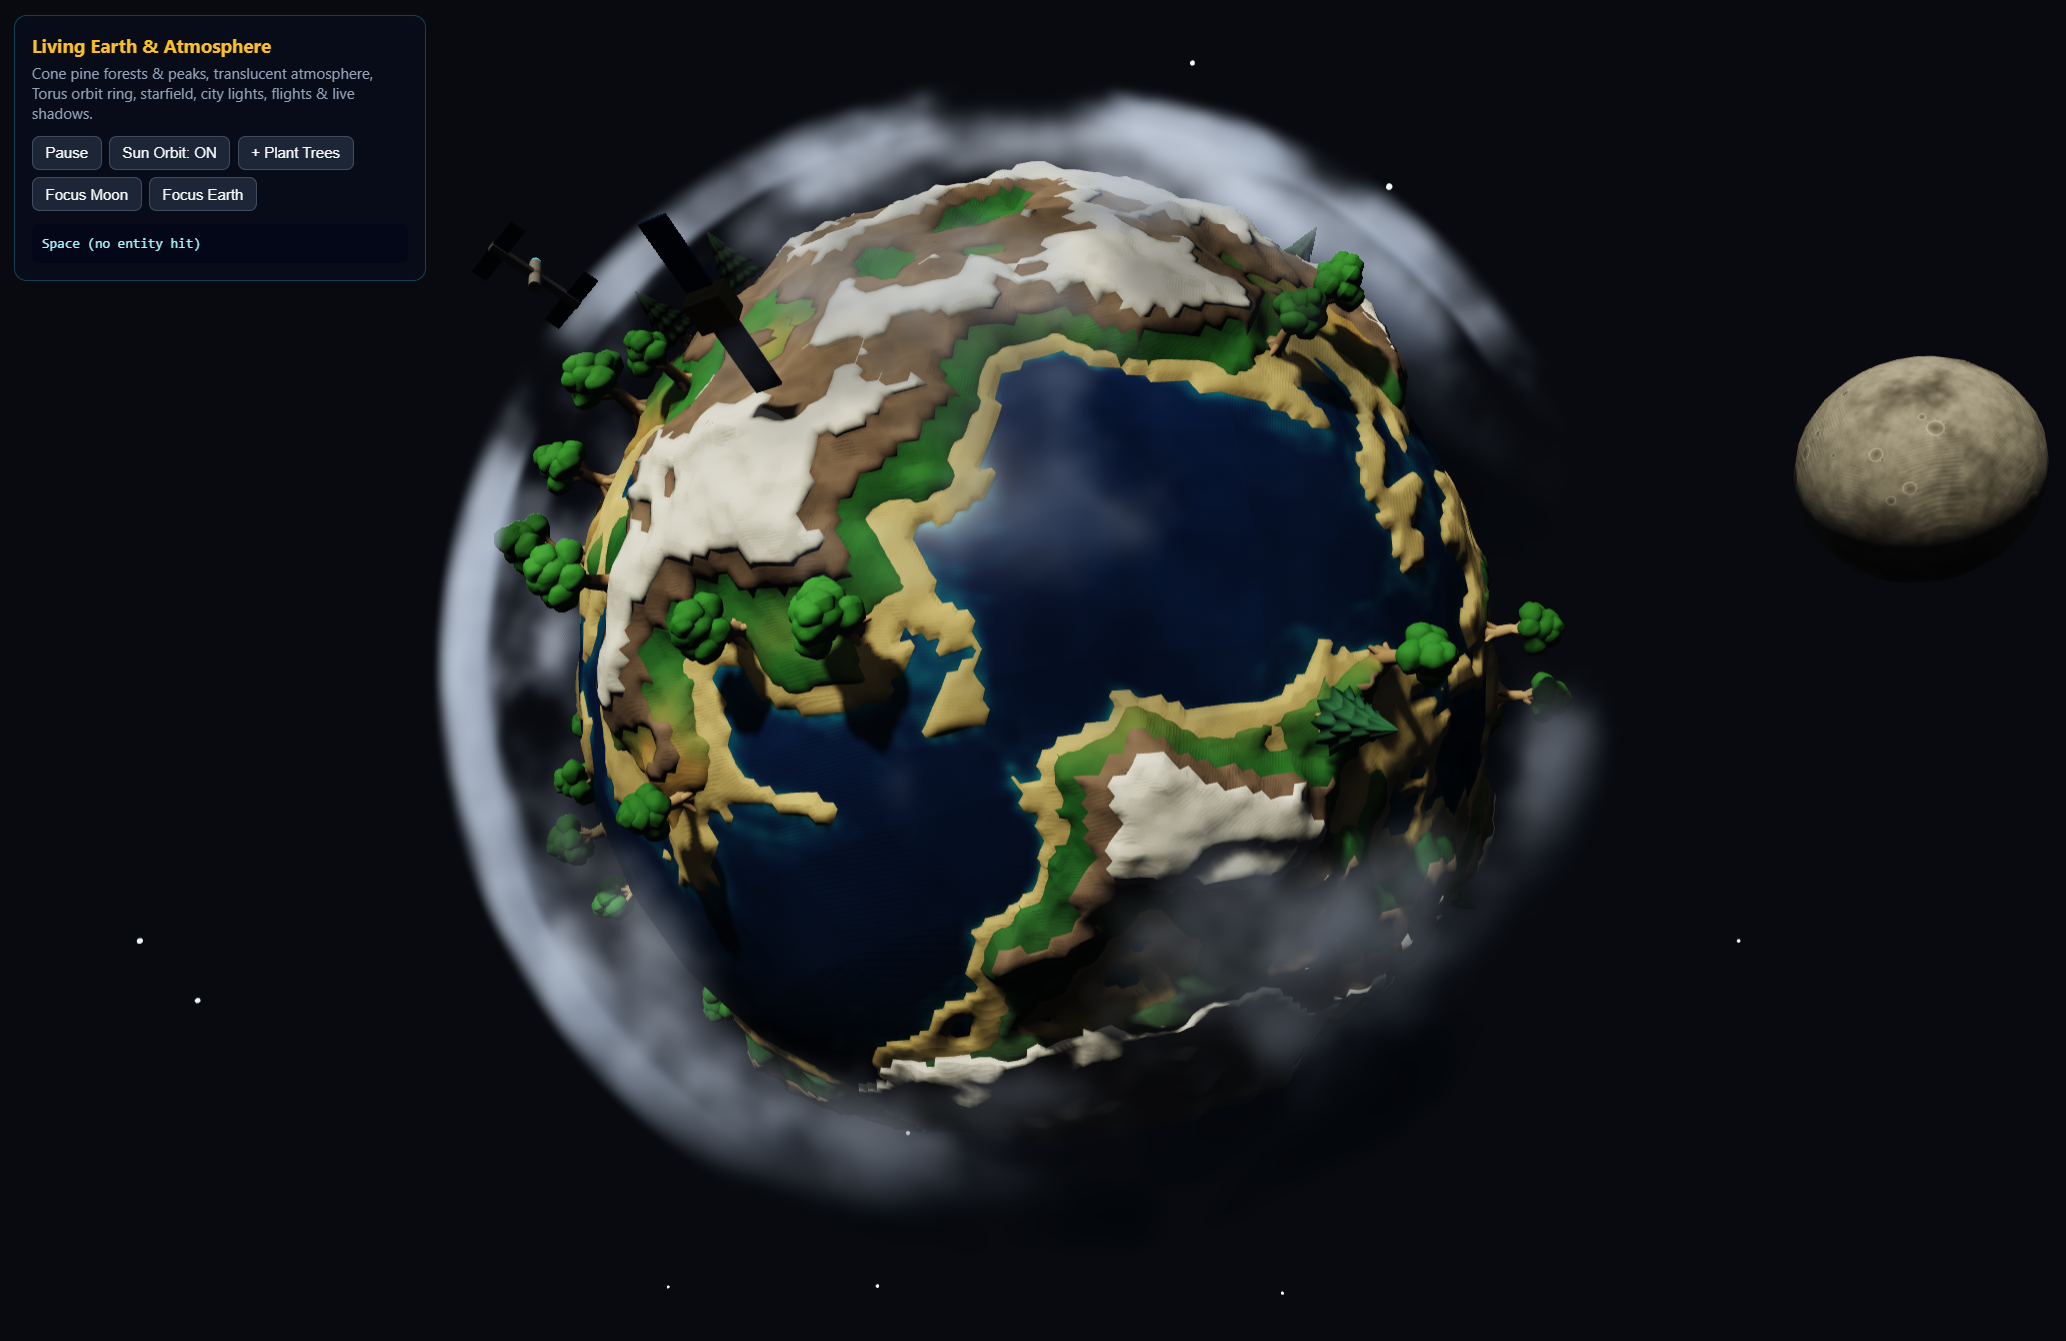
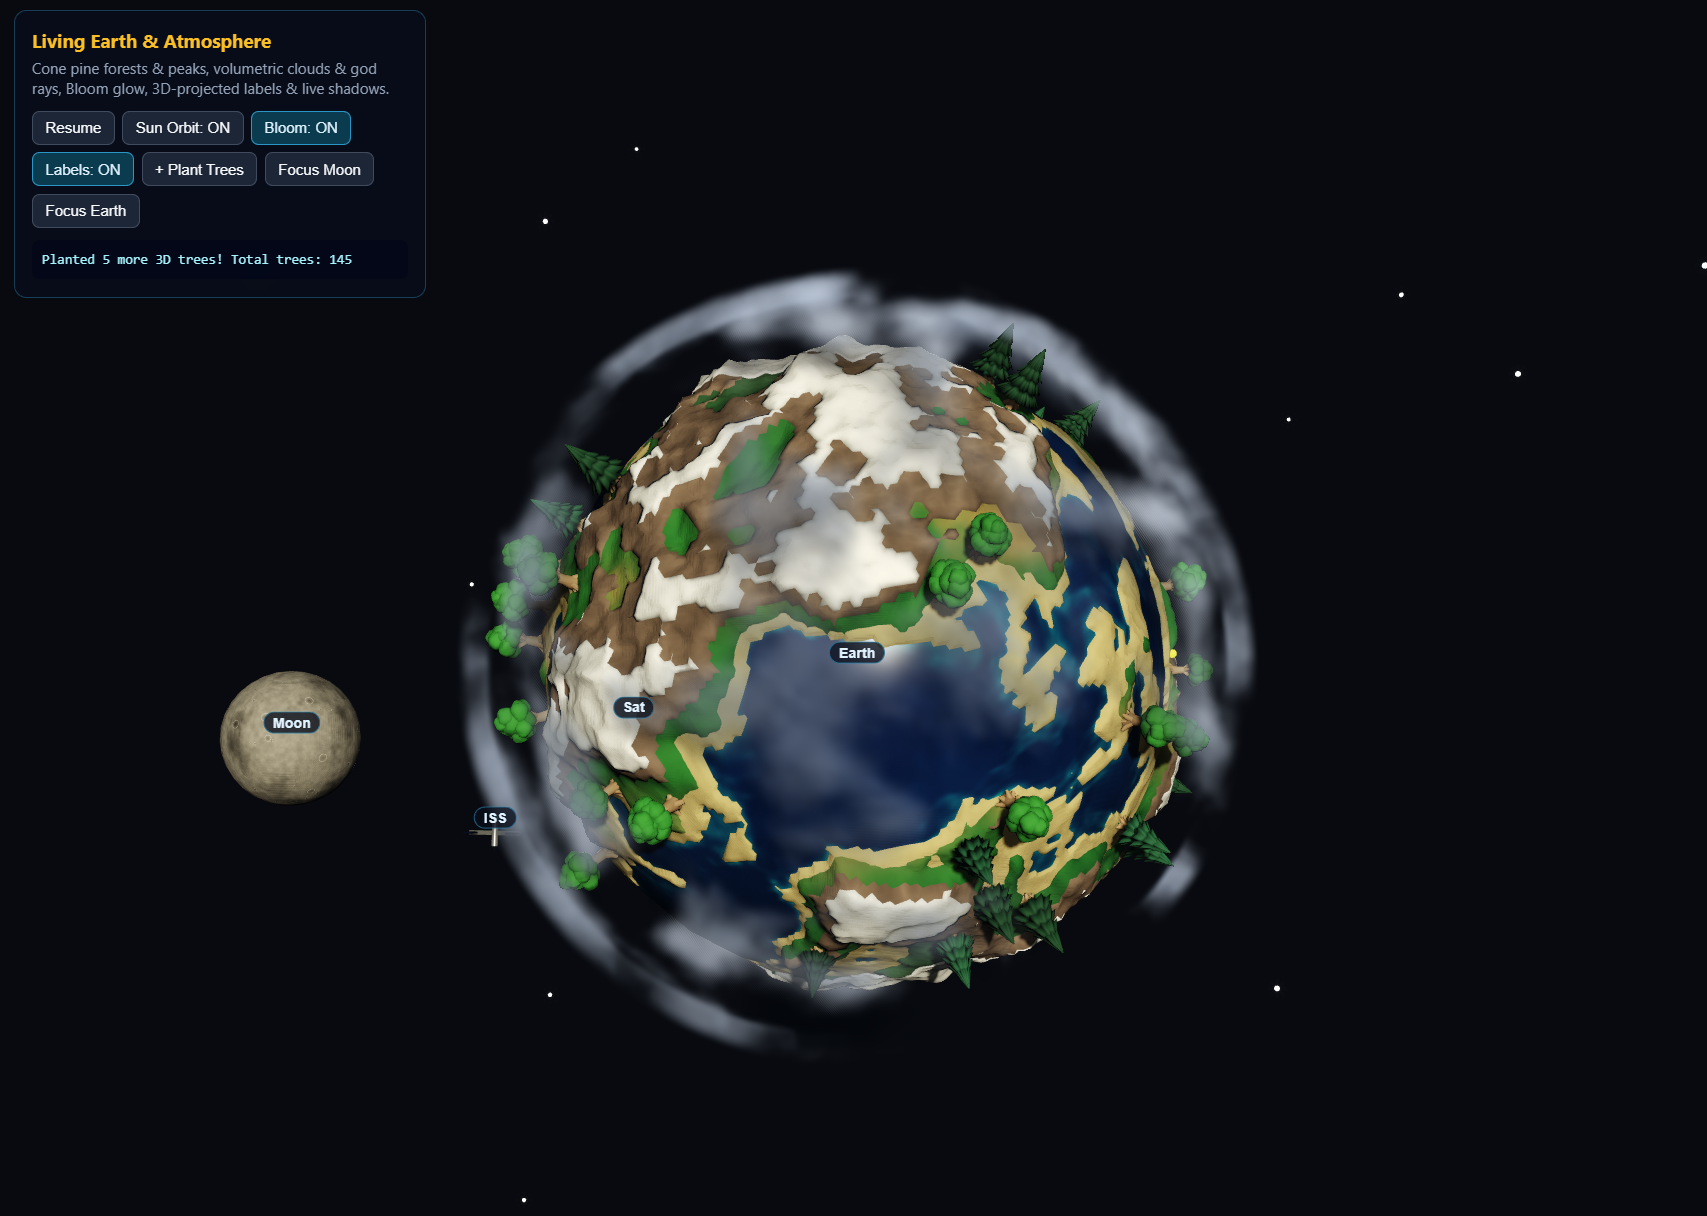
add Bloom post-processing, app.project(), AI collision fixes, and dynamic clouds
- Rendering & Volumetric Shaders:
  - Add `src/gpu/shaders/bloom.wgsl` and `app.setBloom(config)` in `Engine` / `Renderer`
    (with `postColorTexture` chaining alongside the volumetric pass)
  - Enhance `src/gpu/shaders/volumetric.wgsl` with dynamic cloud lifecycle (buildup,
    dissipation, wispy edge erosion, isotropic 3D domain warping, and bounded wind shear)
    and remove screen-space god rays
- AI Inspection & Engine API:
  - Add `suggestedFixes` (`SuggestedFix[]`) to `Inspector.describe()` for actionable
    `app.patch()` collision resolution, with unit tests in `Inspector.test.ts`
  - Add `projectWorldPoint()` and `app.project(target)` reading world transforms from
    `modelMatrices` (and update `applySyncCamera` to resolve parented entities properly)
  - Export `BloomConfig`, `ProjectedPoint`, and `SuggestedFix` in `src/index.ts`
- Examples & Docs:
  - Refine `examples/earth-globe.html` with Bloom toggle, toggleable 3D-projected HTML
    labels (`L` shortcut / HUD button), and faster dynamic cloud lifecycle
  - Add `examples/smart-factory/` (AI-supervised warehouse with `McpBridge`, `app.patch()`,
    `app.pick()`, auto-healing `warnings[]`, `suggestedFixes`, `app.project()`, Bloom, README)
  - Add `examples/sky-rings/` arcade flight game with Bloom, mouse/keyboard controls,
    segment-to-sphere ring collision, and README
  - Update `README.md` with new features, examples, and `examples/earth-globe.png` preview

diff --git a/examples/earth-globe.html b/examples/earth-globe.html
@@ -41,6 +41,12 @@
         font-size: 12px;
       }
       button:hover { border-color: #fbbf24; background: rgba(251, 191, 36, 0.16); }
+      button.toggle-on {
+        border-color: rgba(56, 189, 248, 0.7);
+        background: rgba(14, 116, 144, 0.45);
+        color: #e0f2fe;
+      }
+      #hud { z-index: 10; }
       #pickInfo {
         padding: 8px;
         border-radius: 6px;
@@ -48,16 +54,49 @@
         font: 11px/1.4 monospace;
         color: #a5f3fc;
       }
+      #labelsLayer {
+        position: fixed;
+        inset: 0;
+        z-index: 5;
+        pointer-events: none;
+        overflow: hidden;
+      }
+      .world-label {
+        position: absolute;
+        top: 0;
+        left: 0;
+        transform: translate(-50%, -120%);
+        padding: 2px 7px;
+        border-radius: 999px;
+        background: rgba(8, 13, 26, 0.78);
+        border: 1px solid rgba(56, 189, 248, 0.45);
+        color: #e0f2fe;
+        font-size: 11px;
+        font-weight: 600;
+        letter-spacing: 0.02em;
+        white-space: nowrap;
+        pointer-events: auto;
+        cursor: pointer;
+        user-select: none;
+        transition: border-color 0.15s, background 0.15s;
+      }
+      .world-label:hover {
+        border-color: #fbbf24;
+        background: rgba(251, 191, 36, 0.22);
+      }
     </style>
   </head>
   <body>
     <canvas id="canvas"></canvas>
+    <div id="labelsLayer"></div>
     <div id="hud">
       <h1>Living Earth &amp; Atmosphere</h1>
-      <p>Cone pine forests &amp; peaks, translucent atmosphere, Torus orbit ring, starfield, city lights, flights &amp; live shadows.</p>
+      <p>Cone pine forests &amp; peaks, volumetric clouds &amp; god rays, Bloom glow, 3D-projected labels &amp; live shadows.</p>
       <div class="row">
         <button id="btnPause">Pause</button>
         <button id="btnSunOrbit">Sun Orbit: ON</button>
+        <button id="btnBloom" class="toggle-on">Bloom: ON</button>
+        <button id="btnLabels" class="toggle-on">Labels: ON</button>
         <button id="btnPlant">+ Plant Trees</button>
         <button id="btnFocusMoon">Focus Moon</button>
         <button id="btnFit">Focus Earth</button>
@@ -82,8 +121,11 @@
       } from '../src/index.ts';
 
       const pickInfo = document.getElementById('pickInfo');
+      const labelsLayer = document.getElementById('labelsLayer');
       const btnPause = document.getElementById('btnPause');
       const btnSunOrbit = document.getElementById('btnSunOrbit');
+      const btnBloom = document.getElementById('btnBloom');
+      const btnLabels = document.getElementById('btnLabels');
       const btnPlant = document.getElementById('btnPlant');
       const btnFocusMoon = document.getElementById('btnFocusMoon');
       const btnFit = document.getElementById('btnFit');
@@ -587,7 +629,7 @@
           cloudDensity: 3.1,
           cloudCoverage: 0.56,
           cloudScale: 1.45,
-          cloudSpeed: 0.16,
+          cloudSpeed: 0.34,
           scatter: 0.68,
         });
 
@@ -688,10 +730,32 @@
         app.add(Sphere({ id: 'iss-beacon', parent: 'iss', position: [0, 0.10, 0], radius: 0.02, color: '#38bdf8', emissive: 3.0 }));
 
         app.use(OrbitControls({ distance: 7.0, target: [0, 0, 0] }));
+        app.setBloom({ enabled: true, threshold: 0.80, intensity: 0.65, radius: 1.7 });
 
         let paused = false;
         let sunOrbit = true;
+        let bloomOn = true;
+        let labelsOn = true;
         let simTime = 0;
+
+        // 3D-projected HTML labels using app.project()
+        const labelTargets = [
+          { id: 'earth', text: 'Earth', dist: 7.0 },
+          { id: 'moon', text: 'Moon', dist: 2.2 },
+          { id: 'iss', text: 'ISS', dist: 1.8 },
+          { id: 'satellite', text: 'Sat', dist: 1.8 },
+          { id: 'sun', text: 'Sun', dist: 4.5 },
+        ].map((item) => {
+          const el = document.createElement('button');
+          el.className = 'world-label';
+          el.textContent = item.text;
+          el.addEventListener('click', (ev) => {
+            ev.stopPropagation();
+            app.focusCamera({ target: item.id, angle: 'front-elevated', distance: item.dist });
+          });
+          labelsLayer.appendChild(el);
+          return { ...item, el };
+        });
 
         btnPause.addEventListener('click', () => {
           paused = !paused;
@@ -700,6 +764,22 @@
         btnSunOrbit.addEventListener('click', () => {
           sunOrbit = !sunOrbit;
           btnSunOrbit.textContent = `Sun Orbit: ${sunOrbit ? 'ON' : 'OFF'}`;
+        });
+        btnBloom.addEventListener('click', () => {
+          bloomOn = !bloomOn;
+          app.setBloom({ enabled: bloomOn });
+          btnBloom.textContent = `Bloom: ${bloomOn ? 'ON' : 'OFF'}`;
+          btnBloom.classList.toggle('toggle-on', bloomOn);
+        });
+        const toggleLabels = () => {
+          labelsOn = !labelsOn;
+          labelsLayer.style.display = labelsOn ? 'block' : 'none';
+          btnLabels.textContent = `Labels: ${labelsOn ? 'ON' : 'OFF'}`;
+          btnLabels.classList.toggle('toggle-on', labelsOn);
+        };
+        btnLabels.addEventListener('click', toggleLabels);
+        window.addEventListener('keydown', (e) => {
+          if (e.key === 'l' || e.key === 'L') toggleLabels();
         });
         btnPlant.addEventListener('click', () => {
           for (let k = 0; k < 5; k++) {
@@ -712,42 +792,57 @@
         btnFit.addEventListener('click', () => app.focusCamera({ target: 'earth', angle: 'front-elevated', distance: 7.0 }));
 
         app.onTick((dt) => {
-          if (paused) return;
-          simTime += dt;
+          if (!paused) {
+            simTime += dt;
 
-          quat.fromEuler(earth.rotation, 0.18, simTime * 0.20, 0);
+            quat.fromEuler(earth.rotation, 0.18, simTime * 0.20, 0);
 
-          const mAngle = simTime * 0.35;
-          moon.setPosition(
-            Math.cos(mAngle) * moonOrbitR,
-            0.35 * Math.sin(mAngle),
-            Math.sin(mAngle) * moonOrbitR,
-          );
+            const mAngle = simTime * 0.35;
+            moon.setPosition(
+              Math.cos(mAngle) * moonOrbitR,
+              0.35 * Math.sin(mAngle),
+              Math.sin(mAngle) * moonOrbitR,
+            );
 
-          const sAngle = -simTime * 0.95;
-          sat.setPosition(
-            Math.cos(sAngle) * 2.55,
-            Math.sin(sAngle * 2) * 0.55,
-            Math.sin(sAngle) * 2.55,
-          );
-          quat.fromEuler(sat.rotation, 0, -sAngle, 0.3);
+            const sAngle = -simTime * 0.95;
+            sat.setPosition(
+              Math.cos(sAngle) * 2.55,
+              Math.sin(sAngle * 2) * 0.55,
+              Math.sin(sAngle) * 2.55,
+            );
+            quat.fromEuler(sat.rotation, 0, -sAngle, 0.3);
 
-          const issAngle = simTime * 0.72 + 2.1;
-          iss.setPosition(
-            Math.cos(issAngle) * 2.75,
-            Math.sin(issAngle) * 1.15,
-            Math.sin(issAngle) * 2.50,
-          );
-          quat.fromEuler(iss.rotation, 0.35, -issAngle, 0.2);
+            const issAngle = simTime * 0.72 + 2.1;
+            iss.setPosition(
+              Math.cos(issAngle) * 2.75,
+              Math.sin(issAngle) * 1.15,
+              Math.sin(issAngle) * 2.50,
+            );
+            quat.fromEuler(iss.rotation, 0.35, -issAngle, 0.2);
 
-          quat.fromEuler(sunMesh.rotation, 0.12, simTime * 0.08, 0);
-          if (sunOrbit) {
-            const sunA = simTime * 0.18 + 0.6;
-            const sx = Math.cos(sunA) * sunRadius;
-            const sy = 4.2 + Math.sin(sunA * 0.5) * 1.5;
-            const sz = Math.sin(sunA) * sunRadius;
-            sunLight.setPosition(sx, sy, sz);
-            sunMesh.setPosition(sx, sy, sz);
+            quat.fromEuler(sunMesh.rotation, 0.12, simTime * 0.08, 0);
+            if (sunOrbit) {
+              const sunA = simTime * 0.18 + 0.6;
+              const sx = Math.cos(sunA) * sunRadius;
+              const sy = 4.2 + Math.sin(sunA * 0.5) * 1.5;
+              const sz = Math.sin(sunA) * sunRadius;
+              sunLight.setPosition(sx, sy, sz);
+              sunMesh.setPosition(sx, sy, sz);
+            }
+          }
+
+          if (labelsOn) {
+            for (let i = 0; i < labelTargets.length; i++) {
+              const item = labelTargets[i];
+              const p = app.project(item.id);
+              if (!p || !p.visible) {
+                item.el.style.display = 'none';
+              } else {
+                item.el.style.display = 'block';
+                item.el.style.left = `${p.x.toFixed(1)}px`;
+                item.el.style.top = `${p.y.toFixed(1)}px`;
+              }
+            }
           }
         });
 

diff --git a/src/core/Engine.ts b/src/core/Engine.ts
@@ -469,9 +469,11 @@ export class Engine {
     if (typeof cfg.target === 'string') {
       const id = resolveEntityId(cfg.target);
       if (id !== undefined) {
-        tx = this.store.positions[id * 3] ?? 0;
-        ty = this.store.positions[id * 3 + 1] ?? 0;
-        tz = this.store.positions[id * 3 + 2] ?? 0;
+        this.store.updateMatrices();
+        const mOff = id * 16;
+        tx = this.store.modelMatrices[mOff + 12] ?? 0;
+        ty = this.store.modelMatrices[mOff + 13] ?? 0;
+        tz = this.store.modelMatrices[mOff + 14] ?? 0;
       } else {
         warnings.push(`Unknown camera target "${cfg.target}"; targeting origin.`);
       }
@@ -545,19 +547,16 @@ export class Engine {
     let point: readonly [number, number, number];
     if (Array.isArray(target)) {
       point = target as readonly [number, number, number];
-    } else if (target instanceof EntityHandle) {
-      point = [
-        this.store.positions[target.id * 3] ?? 0,
-        this.store.positions[target.id * 3 + 1] ?? 0,
-        this.store.positions[target.id * 3 + 2] ?? 0,
-      ];
     } else {
-      const handle = this.get(target as string | number);
+      const handle =
+        target instanceof EntityHandle ? target : this.get(target as string | number);
       if (!handle) return null;
+      this.store.updateMatrices();
+      const mOff = handle.id * 16;
       point = [
-        this.store.positions[handle.id * 3] ?? 0,
-        this.store.positions[handle.id * 3 + 1] ?? 0,
-        this.store.positions[handle.id * 3 + 2] ?? 0,
+        this.store.modelMatrices[mOff + 12] ?? 0,
+        this.store.modelMatrices[mOff + 13] ?? 0,
+        this.store.modelMatrices[mOff + 14] ?? 0,
       ];
     }
 
